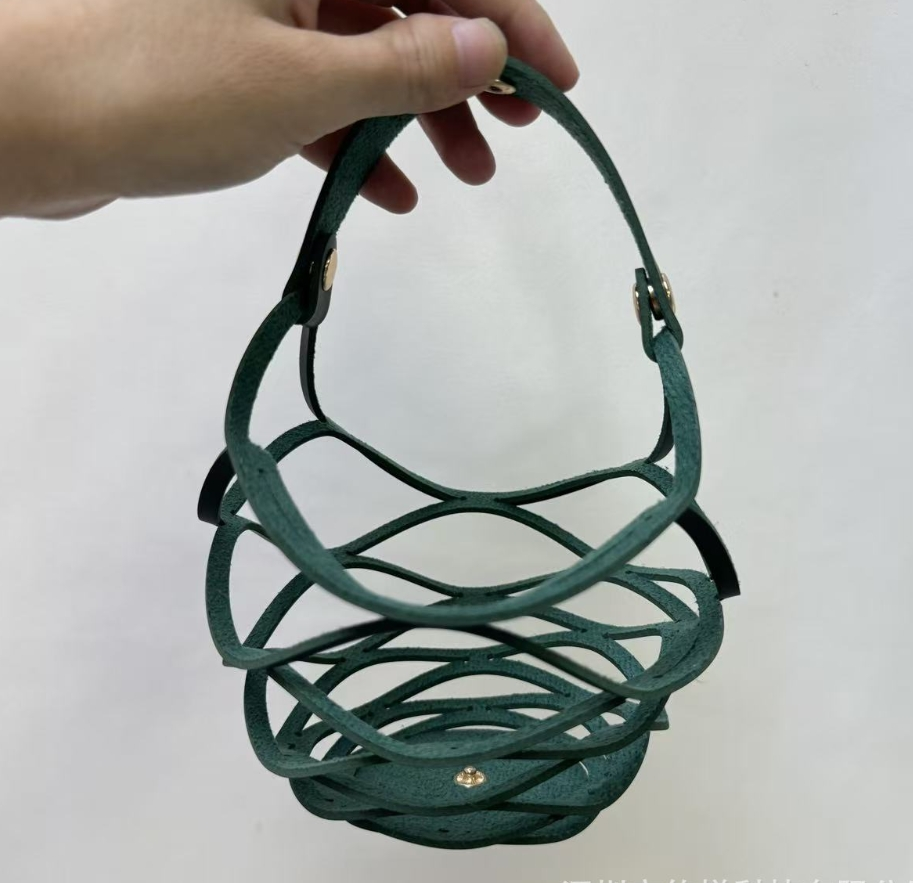
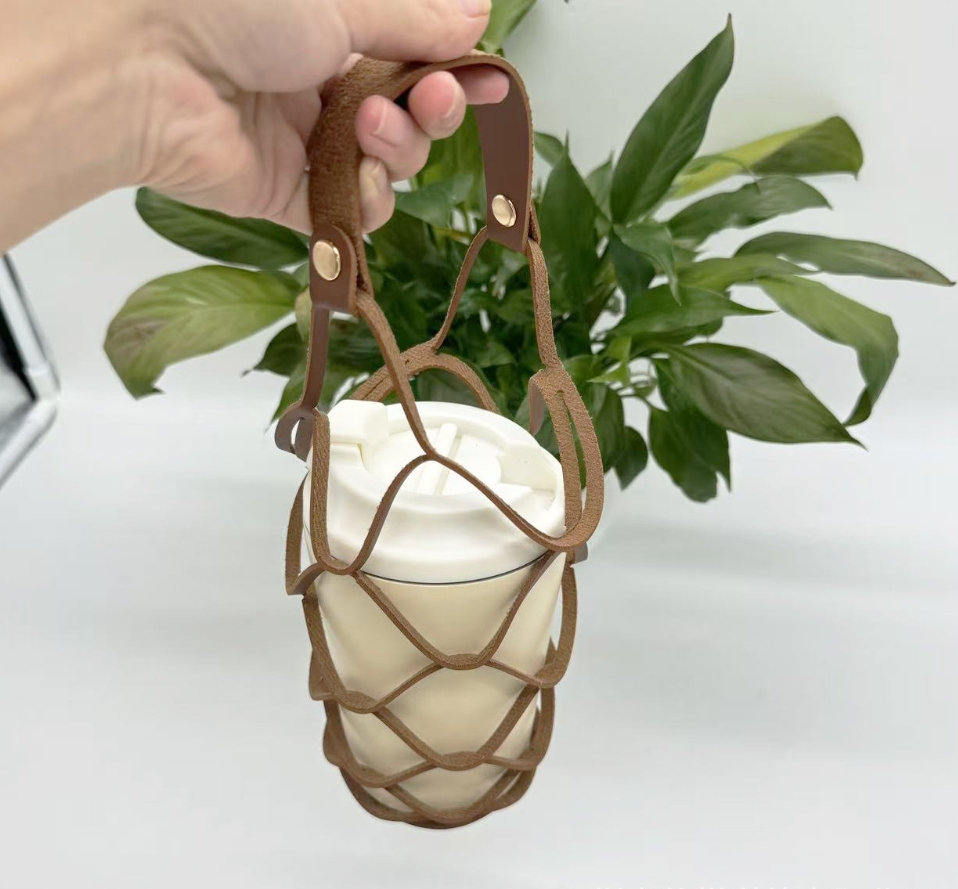
wine-baskets: add lp-008 (DXD9962) + lp-009 (DXD9963); rename DXD9962 files to 01-08
Both products were previously uploaded as image folders but missing from js/data.js (rendered silently absent on the products page).

diff --git a/js/data.js b/js/data.js
@@ -295,6 +295,60 @@ const products = [
     }
   },
 
+  // --- Wine Baskets: DXD9962 / DXD9963 (Net-pattern / Fruit-handle handbag) ---
+  {
+    id: 'lp-008',
+    name: 'DXD9962 Leather Net & Mesh Wine Carrier',
+    category: 'wine-baskets',
+    images: [
+      'red-wine-packaging/DXD9962/02.jpg',
+      'red-wine-packaging/DXD9962/03.jpg',
+      'red-wine-packaging/DXD9962/04.jpg',
+      'red-wine-packaging/DXD9962/05.jpg',
+      'red-wine-packaging/DXD9962/06.jpg',
+      'red-wine-packaging/DXD9962/07.jpg',
+      'red-wine-packaging/DXD9962/08.jpg'
+    ],
+    desc: "Leather wine carrier featuring a net-detail, threaded-mesh exterior over a croc-embossed leather shell. The crossover mesh pattern offers breathability and visual texture while keeping the bottle secure. Single-bottle carrier sized to a standard 750ml format. A stylish alternative to solid leather carriers for gift packaging and retail.",
+    scenes: ['Wine Gift', 'Retail Display', 'Holiday Gift Set', 'Wedding Favor', 'Corporate Gifting'],
+    materials: ['PU Leather (Croc Embossed)', 'Mesh Fabric', 'Threaded Net Detail', 'Metal Hardware'],
+    specs: {
+      'Model': 'DXD9962',
+      'Material': 'PU Leather with croc-emboss + mesh/threaded overlay',
+      'Size': 'As pictured (single bottle)',
+      'Capacity': '1 × 750ml bottle',
+      'Style': 'Net-pattern body with threaded-mesh wrap',
+      'Colors': 'Brown',
+      'Logo': 'Deboss / Hot-stamp',
+      'MOQ': '3000 pcs'
+    }
+  },
+  {
+    id: 'lp-009',
+    name: 'DXD9963 Leather Net & Mesh Fruit / Wine Handbag',
+    category: 'wine-baskets',
+    images: [
+      'red-wine-packaging/DXD9963/03.jpg',
+      'red-wine-packaging/DXD9963/04.jpg',
+      'red-wine-packaging/DXD9963/05.jpg',
+      'red-wine-packaging/DXD9963/06.jpg'
+    ],
+    desc: "Leather handbag-style carrier pairing a croc-embossed shell with a net-and-threaded-mesh wrap. Designed to hold a single bottle or a small fruit/gift arrangement — a versatile two-in-one gifting solution. Mesh overlay provides breathability for fresh produce and visual texture for premium wine packaging.",
+    scenes: ['Wine Gift', 'Fruit Gift Box', 'Holiday Gift Set', 'Special Occasion', 'Retail Display'],
+    materials: ['PU Leather (Croc Embossed)', 'Mesh Fabric', 'Threaded Net Detail', 'Metal Hardware'],
+    specs: {
+      'Model': 'DXD9963',
+      'Material': 'PU Leather with croc-emboss + mesh/threaded overlay',
+      'Size': 'As pictured (single bottle / fruit arrangement)',
+      'Capacity': '1 × 750ml bottle OR fruit arrangement',
+      'Style': 'Handbag form with net-pattern + threaded-mesh wrap',
+      'Colors': 'Brown',
+      'Logo': 'Deboss / Hot-stamp',
+      'MOQ': '3000 pcs'
+    }
+  },
+
+
   // ═══════════════════════════════════════
   //  CROC TOTE BAGS — Multiple Colors
   // ═══════════════════════════════════════